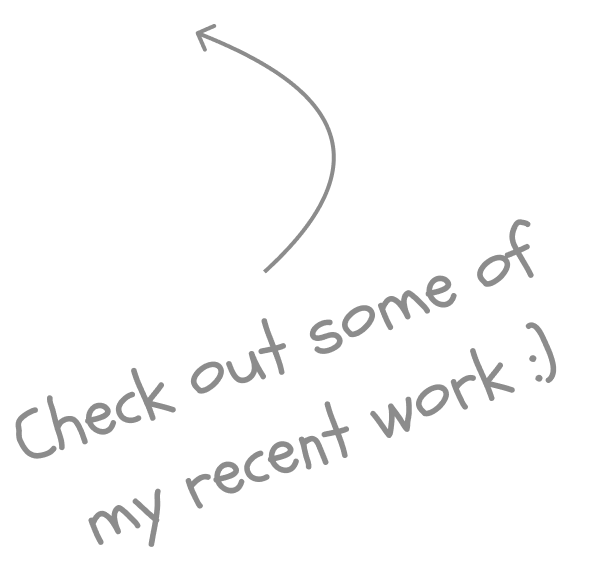
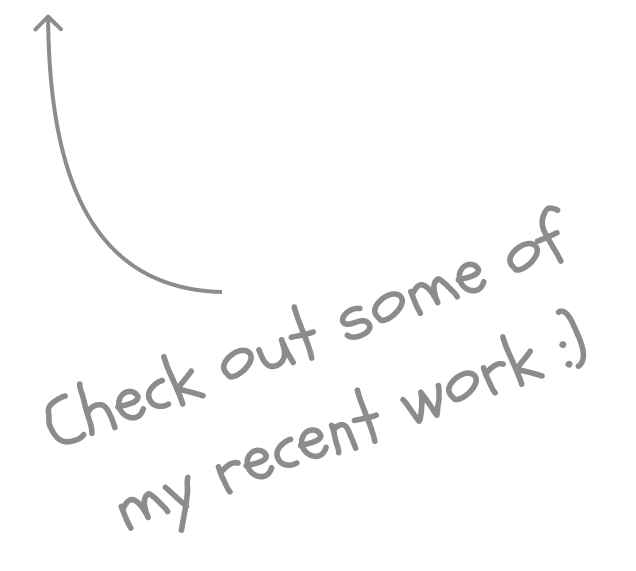
recent work image

diff --git a/src/app/(main)/page.tsx b/src/app/(main)/page.tsx
@@ -3,6 +3,7 @@ import Image from "next/image";
 // Images
 import aaron from "@/../public/aaron@2x.png";
 import arrowHappyClients from "@/../public/arrow-happy-clients@2x.png";
+import arrowRecentWork from "@/../public/arrow-recent-work@2x.png";
 import bgWave from "@/../public/bg-wave.png";
 import blobBlue from "@/../public/blob-blue.svg";
 import blobOrange from "@/../public/blob-orange.svg";
@@ -192,7 +193,7 @@ function WorkSection(): JSX.Element {
           <WorkImage imageSrc={workNSFGroup} imageAlt="Newcastle Dog and Cat shelter's re-home a dog page." />
         </WorkSlider>
 
-        {/* <Image src={arrowRecentWork} alt="Arrow with caption 'check out my recent work'" className="absolute -right-[250px] -bottom-[150px] pointer-events-none" width={303} height={293} /> */}
+        <Image src={arrowRecentWork} alt="Arrow with caption 'check out my recent work'" className="absolute -right-[50px] -bottom-[250px] pointer-events-none" width={303} height={293} />
       </div>
     </div>
   );

diff --git a/src/components/header-nav.tsx b/src/components/header-nav.tsx
@@ -10,15 +10,15 @@ import logo from "../../public/logo.svg";
 export default function HeaderNav() {
   const links: { href: string; text: string }[] = [
     {
-      href: "#services",
+      href: "/#services",
       text: "Services",
     },
     {
-      href: "#work",
+      href: "/#work",
       text: "Work",
     },
     {
-      href: "#testimonials",
+      href: "/#testimonials",
       text: "Testimonials",
     },
   ];

diff --git a/src/components/slider.tsx b/src/components/slider.tsx
@@ -1,0 +1,13 @@
+import { PropsWithChildren, ReactNode } from "react";
+
+export default function Slider(props: PropsWithChildren) {
+  return (
+    <div>
+      {Array(props.children).map((child: ReactNode, i: number) => (
+        <div key={i} className="absolute">
+          {child}
+        </div>
+      ))}
+    </div>
+  );
+}
